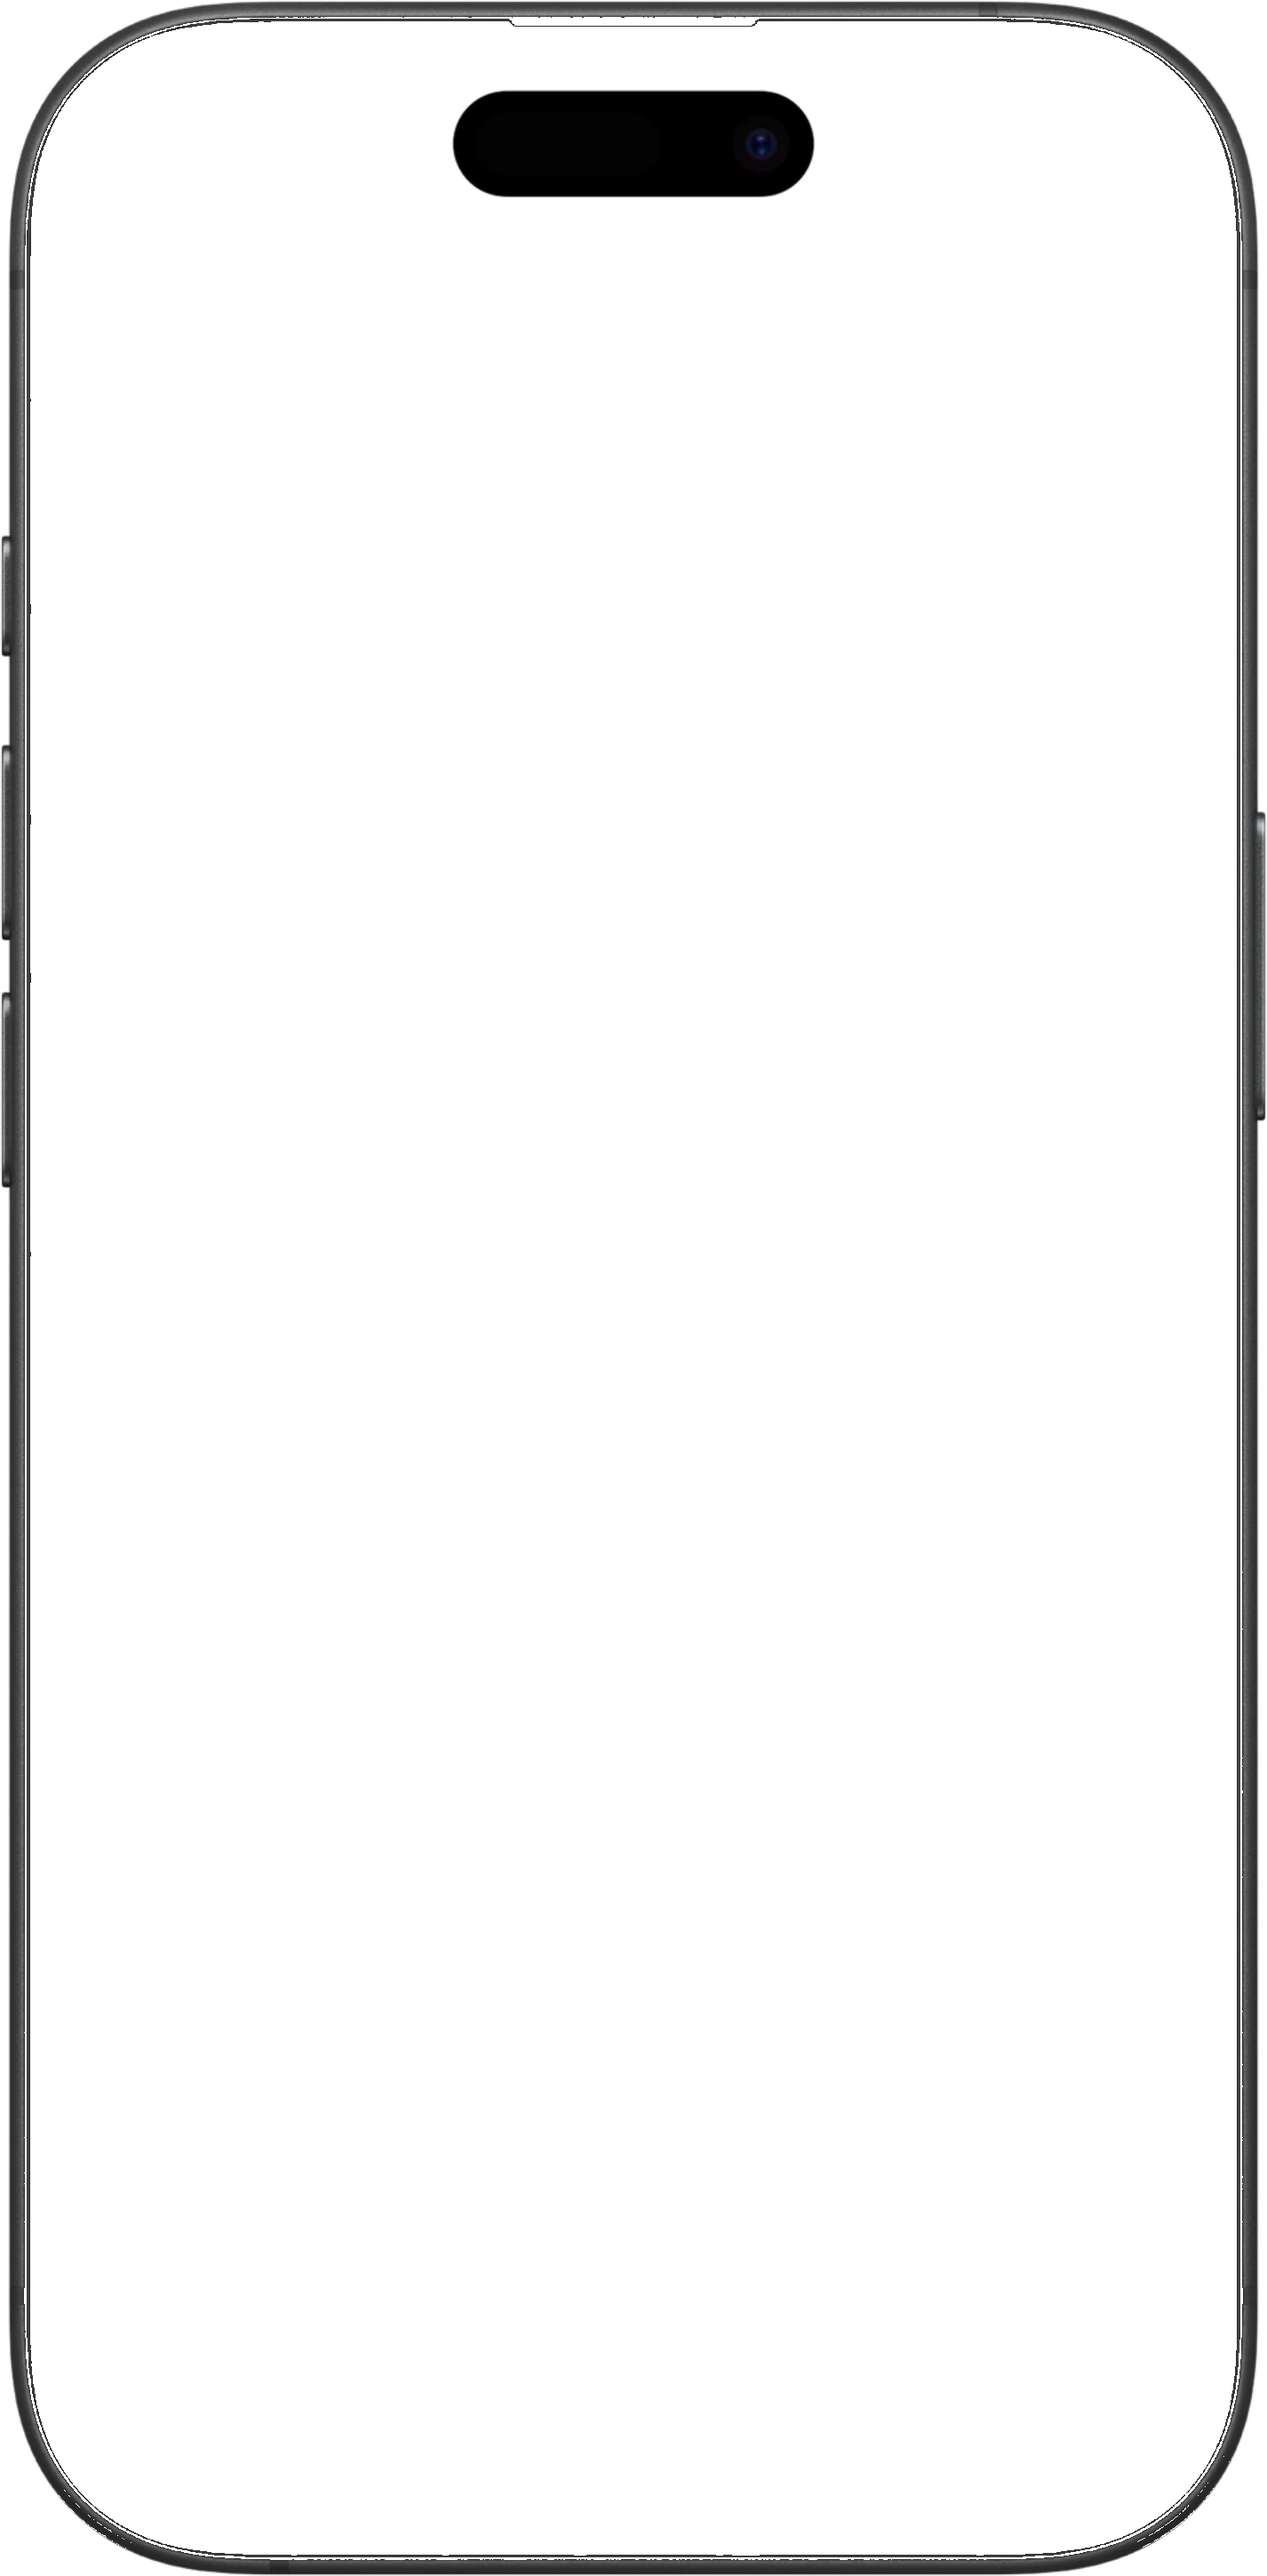
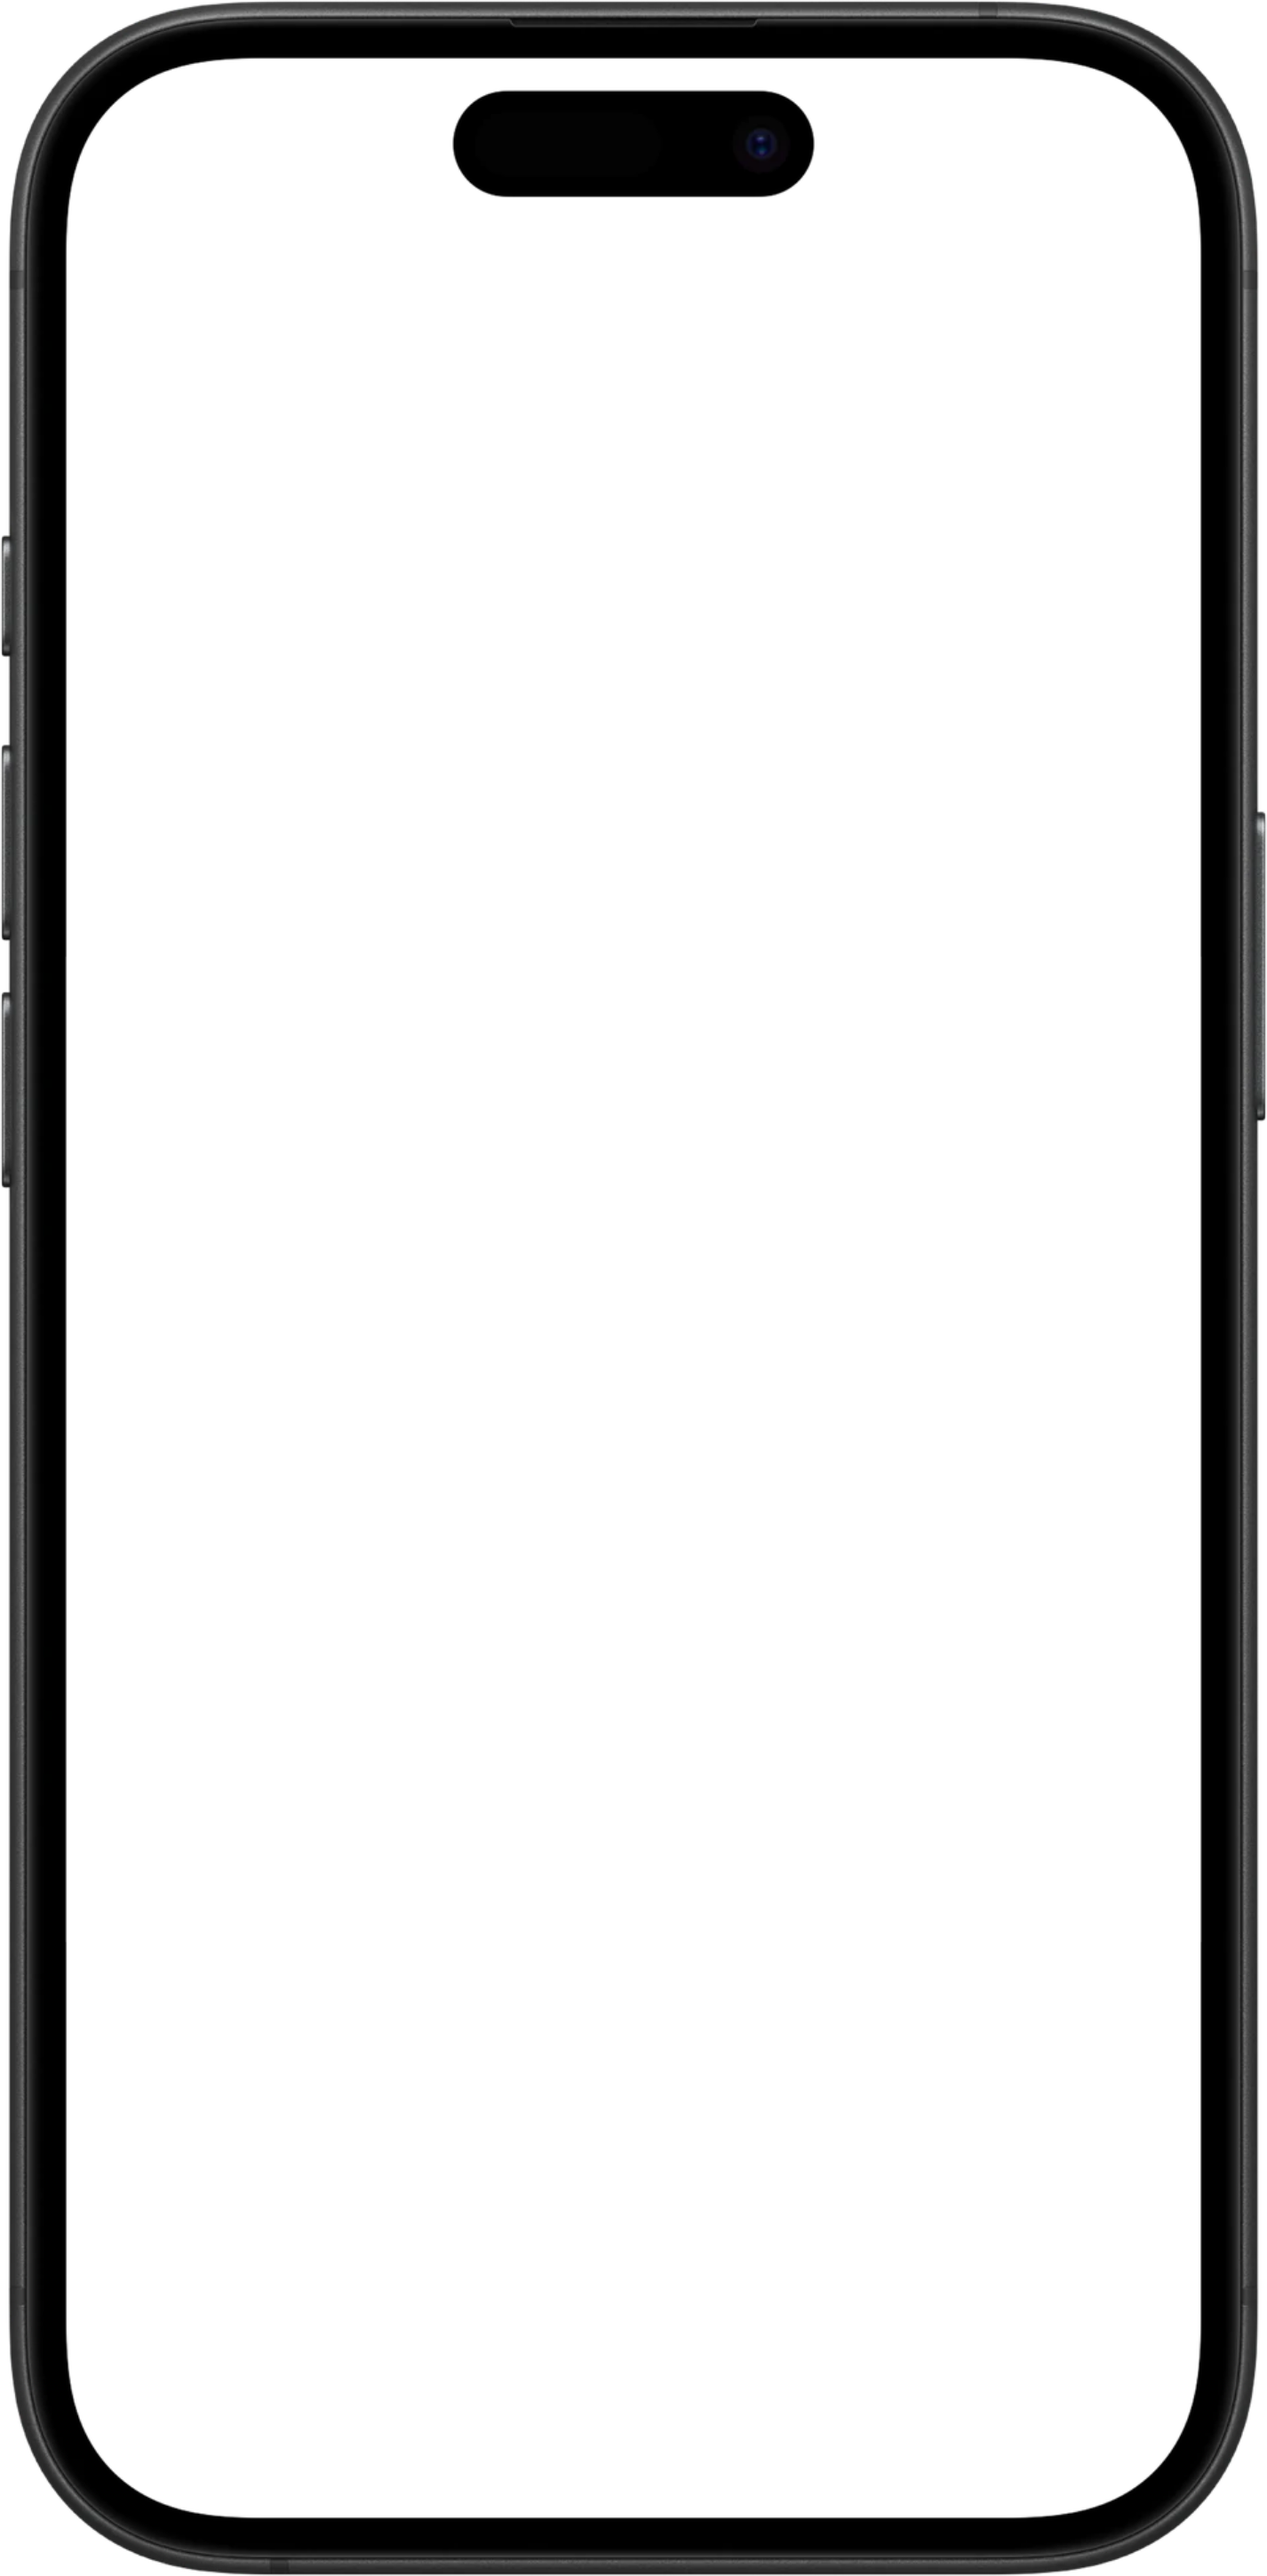
Demo: use the original frame (fixes black corners poking out)

Changed region(s): [[0.0, 0.0, 0.9874, 0.9934]]

diff --git a/sandbox/demo.html b/sandbox/demo.html
@@ -905,7 +905,7 @@ function bindSwipe(i) {
 }
 function build() {
   document.getElementById("grid").innerHTML = VARIANTS.map((v, i) => `<figure data-i="${i}"><div class="device">
-    <div class="screen"></div><div class="phone"></div>
+    <div class="phone"></div>
     <div class="chrome"><span class="sb-time">9:41</span><span class="sb-icons">${sbIcons()}</span></div>
     <img class="frame" src="bezel-frame.png" alt=""></div></figure>`).join("");
   VARIANTS.forEach((_, i) => draw(i));
